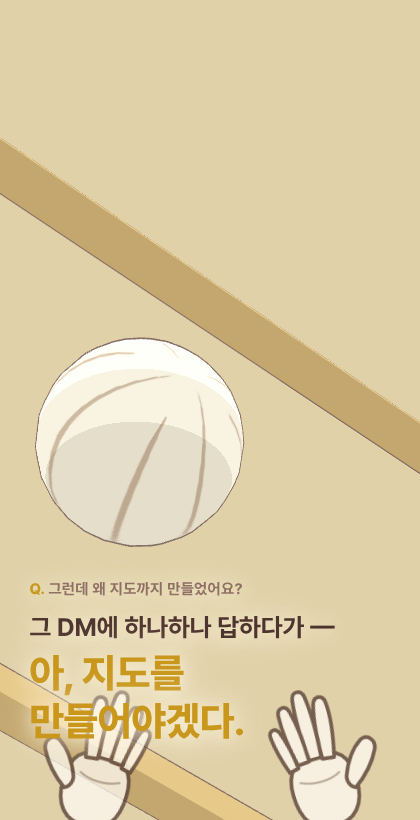
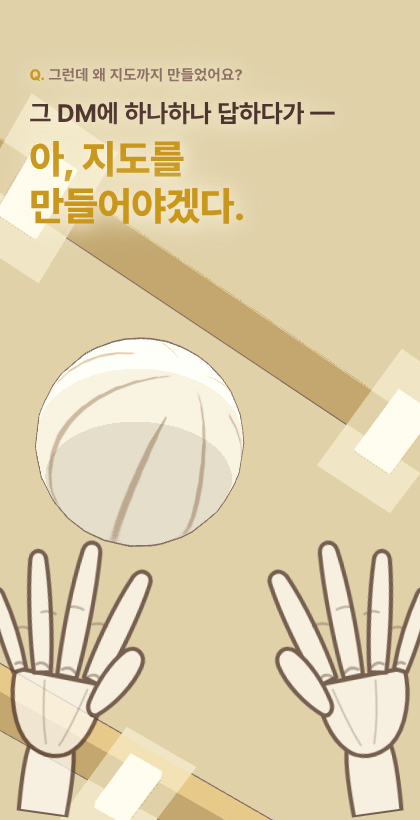
docs: 토스 POV 구도 확정 — 레퍼런스 기반 벌린 손 재작화 + 천장 조명
사용자 제공 레퍼런스(실사 세터 POV·하이큐 극장판 프레임)에 맞춰:
- spread-hand 심볼 신규 (벌린 손가락·너클 볼록선·관절 크리즈·힘줄 힌트)
- 양손을 하단 코너에서 화면 1/3 높이로 크게 배치, 손끝은 공을 향함
- 천장 보에 조명 열(램프+헤일로) 추가, 타이포는 상단으로 이동
- website_design.md에 토스 구도 확정 조항 기록

Claude-Session: https://claude.ai/code/session_01CGnnVWVPrB2vbffiNQpkTn

Changed region(s): [[0.0, 0.6402, 1.0, 1.0], [0.0, 0.061, 0.8048, 0.3659], [0.7429, 0.4268, 1.0, 0.6402]]

diff --git a/look-test.html b/look-test.html
@@ -23,8 +23,8 @@
   .hand { position: fixed; z-index: 3; pointer-events: none; opacity: 0.72; }
   #hand-reach { left: -9vw; top: 38vh; width: 30vw; transform: rotate(22deg); }
   #hand-fist { right: -8vw; bottom: -8vh; width: 48vw; transform: rotate(-10deg); }
-  #hand-tossL { left: 3vw; bottom: -10vh; width: 40vw; transform: rotate(16deg); }
-  #hand-tossR { right: 3vw; bottom: -10vh; width: 40vw; transform: rotate(-16deg) scaleX(-1); }
+  #hand-tossL { left: -5vw; bottom: 0vh; width: 56vw; transform: rotate(8deg) scaleX(-1); }
+  #hand-tossR { right: -5vw; bottom: 0vh; width: 56vw; transform: rotate(-8deg); }
 
   /* 장면 결합 타이포그래피 (박스 없음) */
   .typo {
@@ -33,6 +33,7 @@
     text-shadow: 0 2px 18px rgba(255,248,225,.95), 0 0 40px rgba(255,248,225,.8);
   }
   .typo.bottom { bottom: 9vh; }
+  .typo.top { top: 8vh; }
   .typo.middle { top: 54vh; }
   .typo .q {
     font-size: .95rem; font-weight: 700; color: var(--brown);
@@ -80,6 +81,29 @@
       <!-- 관절 크리즈 힌트 -->
       <path d="M88 152 C 104 160 124 160 142 152" fill="none" stroke-width="3" opacity="0.45"/>
     </g>
+    <!-- 토스 손: 손등 뷰, 손가락 활짝 벌려 공을 향함 (오른손 기준, 엄지 안쪽) -->
+    <g id="spread-hand" fill="#fffdf6" stroke="#4e342e" stroke-width="5" stroke-linejoin="round" stroke-linecap="round">
+      <!-- 팔뚝 -->
+      <path d="M150 380 C 148 338, 149 312, 153 297 L 205 300 C 209 314, 209 342, 207 380 Z"/>
+      <!-- 손등: 너클에서 넓고 손목으로 좁아짐 -->
+      <path d="M126 218 L 234 212 C 238 246, 226 284, 206 300 C 186 314, 164 312, 152 299 C 136 284, 126 252, 126 218 Z"/>
+      <!-- 검지 (안쪽으로 살짝 굽음) -->
+      <path transform="rotate(-19 140 216)" d="M129 216 C 126 176 127 120 133 82 C 135 68 152 68 155 82 C 160 122 158 178 153 216 Z"/>
+      <!-- 중지 (최장) -->
+      <path transform="rotate(-4 172 214)" d="M161 214 C 158 170 159 106 164 62 C 166 48 183 48 185 62 C 190 108 188 172 184 214 Z"/>
+      <!-- 약지 -->
+      <path transform="rotate(9 202 213)" d="M192 213 C 189 174 190 118 195 78 C 197 65 212 65 214 78 C 218 120 216 176 212 213 Z"/>
+      <!-- 소지 (짧고 가늘게, 더 벌어짐) -->
+      <path transform="rotate(24 228 214)" d="M221 214 C 218 184 219 148 223 120 C 225 109 237 109 239 120 C 242 150 240 186 237 214 Z"/>
+      <!-- 엄지: 안쪽(공 쪽)으로 뻗음 -->
+      <path d="M130 254 C 110 238 92 212 86 190 C 82 174 96 164 108 174 C 124 190 136 216 142 240 C 144 250 138 258 130 254 Z"/>
+      <!-- 너클 볼록선 4개 -->
+      <path d="M132 212 q 7 -8 15 -2 M163 208 q 8 -8 16 -2 M195 206 q 8 -7 15 -2 M223 208 q 6 -6 12 -1" fill="none" stroke-width="3.5" opacity="0.5"/>
+      <!-- 손가락 관절 크리즈 (PIP) -->
+      <path d="M133 148 q 9 -4 18 0 M164 132 q 10 -4 19 0 M196 142 q 9 -4 17 0 M224 164 q 7 -3 13 0" fill="none" stroke-width="3" opacity="0.4"/>
+      <!-- 손등 힘줄 힌트 -->
+      <path d="M146 226 C 154 254 162 280 170 296 M198 222 C 196 250 192 276 186 296" fill="none" stroke-width="2.5" opacity="0.3"/>
+    </g>
     <!-- 주먹: 말린 네 손가락 + 감싼 엄지, 측후면 뷰 -->
     <g id="fist-hand" fill="#fffdf6" stroke="#4e342e" stroke-width="6" stroke-linejoin="round" stroke-linecap="round">
       <!-- 팔뚝 -->
@@ -103,9 +127,9 @@
 <!-- POV 손: 당긴 주먹 (스파이크 - 도움닫기) -->
 <svg id="hand-fist" class="hand" viewBox="0 0 260 300" style="display:none"><use href="#fist-hand"/></svg>
 
-<!-- POV 손: 토스 (양손, 손가락을 살짝 안쪽으로) -->
-<svg id="hand-tossL" class="hand" viewBox="0 0 226 320" style="display:none"><use href="#open-hand"/></svg>
-<svg id="hand-tossR" class="hand" viewBox="0 0 226 320" style="display:none"><use href="#open-hand"/></svg>
+<!-- POV 손: 토스 (양손, 손가락 활짝 벌려 공을 향함) -->
+<svg id="hand-tossL" class="hand" viewBox="0 0 280 380" style="display:none"><use href="#spread-hand"/></svg>
+<svg id="hand-tossR" class="hand" viewBox="0 0 280 380" style="display:none"><use href="#spread-hand"/></svg>
 
 <!-- 타이포: 스파이크 -->
 <div class="typo middle" id="typo-spike" style="display:none">
@@ -115,7 +139,7 @@
 </div>
 
 <!-- 타이포: 토스 -->
-<div class="typo bottom" id="typo-toss" style="display:none">
+<div class="typo top" id="typo-toss" style="display:none">
   <div class="q">그런데 왜 지도까지 만들었어요?</div>
   <div class="line">그 DM에 하나하나 답하다가 —</div>
   <span class="hit">아, 지도를 만들어야겠다.</span>
@@ -189,6 +213,16 @@ for (var bi = 0; bi < 5; bi++) {
   var beam = new THREE.Mesh(new THREE.BoxGeometry(0.5, 0.5, 40), tmat(0xd9c08b));
   beam.position.set(-12 + bi * 6, 10.2, -2);
   scene.add(beam);
+  // 보 아래 체육관 조명 열 (올려다보는 컷의 드라마)
+  for (var li = 0; li < 6; li++) {
+    var lamp = new THREE.Mesh(new THREE.BoxGeometry(0.9, 0.12, 0.5), new THREE.MeshBasicMaterial({ color: 0xffffff }));
+    lamp.position.set(-12 + bi * 6, 9.85, -14 + li * 5);
+    scene.add(lamp);
+    var halo = new THREE.Mesh(new THREE.PlaneGeometry(1.7, 1.1), new THREE.MeshBasicMaterial({ color: 0xfffbe0, transparent: true, opacity: 0.5 }));
+    halo.rotation.x = Math.PI / 2;
+    halo.position.set(-12 + bi * 6, 9.78, -14 + li * 5);
+    scene.add(halo);
+  }
 }
 
 // ── 바닥/코트 ──

diff --git a/docs/website_design.md b/docs/website_design.md
@@ -45,7 +45,8 @@
 - **손**: 3D 모델이 아니라 **2D SVG 일러스트 오버레이.**
   - 스타일: 흰 채움(`#FFFDF6`) + dark 선(5~6px, round join/cap), 그룹 `opacity: 0.72`.
   - **사람 손으로 그린다 (만화 장갑 금지)**: 손가락 길이 차등(중지 최장·소지 최단), 끝으로 갈수록 가늘어지는 테이퍼, 엄지는 손바닥 옆면에서 사선으로, 손바닥에 관절 크리즈 힌트 1줄(가는 선, opacity 0.45). 주먹은 말린 손가락 첫마디 능선 4개 + 아래를 사선으로 감싼 엄지.
-  - 포즈 4종: 서브(공 든 손 + 당긴 손) / 리시브(모은 팔뚝 플랫폼) / 토스(양손 머리 위) / 스파이크(뻗은 손 + 당긴 주먹). 원본은 `look-test.html`의 `#open-hand`/`#fist-hand` 심볼 — 재사용·미러링으로 변형한다.
+  - 포즈 4종: 서브(공 든 손 + 당긴 손) / 리시브(모은 팔뚝 플랫폼) / 토스(양손 머리 위) / 스파이크(뻗은 손 + 당긴 주먹). 원본은 `look-test.html`의 `#open-hand`/`#fist-hand`/`#spread-hand` 심볼 — 재사용·미러링으로 변형한다.
+  - **토스 구도 확정 (2026-08-05, 사용자 제공 레퍼런스 기준 — 실사 세터 POV + 하이큐 극장판 세터 POV 프레임)**: 벌린 양손이 **하단 코너에서 화면 1/3 높이까지 크게** 들어오고(`#spread-hand`, 너클 볼록선·관절 크리즈·힘줄 힌트 포함), 손가락 끝은 공을 향한다. 공은 두 손 사이 중앙 상단. 천장에는 보 + 조명 열(흰 램프 + 옅은 헤일로)로 올려다보는 컷의 드라마를 만든다. 타이포는 상단 배치(공·손과 비겹침).
   - 진입: 화면 가장자리 밖에서 스크롤 진행률에 연동해 들어오고 빠진다. 항상 떠 있지 않는다.
 - **공 완전 가시성 (철칙)**: 손 오버레이가 뜨는 동안 **공은 프레임 안에 온전히 보여야 하며**, 손·타이포와 겹치지 않는다. 스피드라인의 소실점 = 공. 시선의 주인은 항상 공이다.
 - **스피드라인**: 스파이크 순간에만. SVG 방사형 집중선, dark 색, 전체 `opacity ≈ 0.55`, **중앙 40%는 비워** 시선이 공에 모이게.
